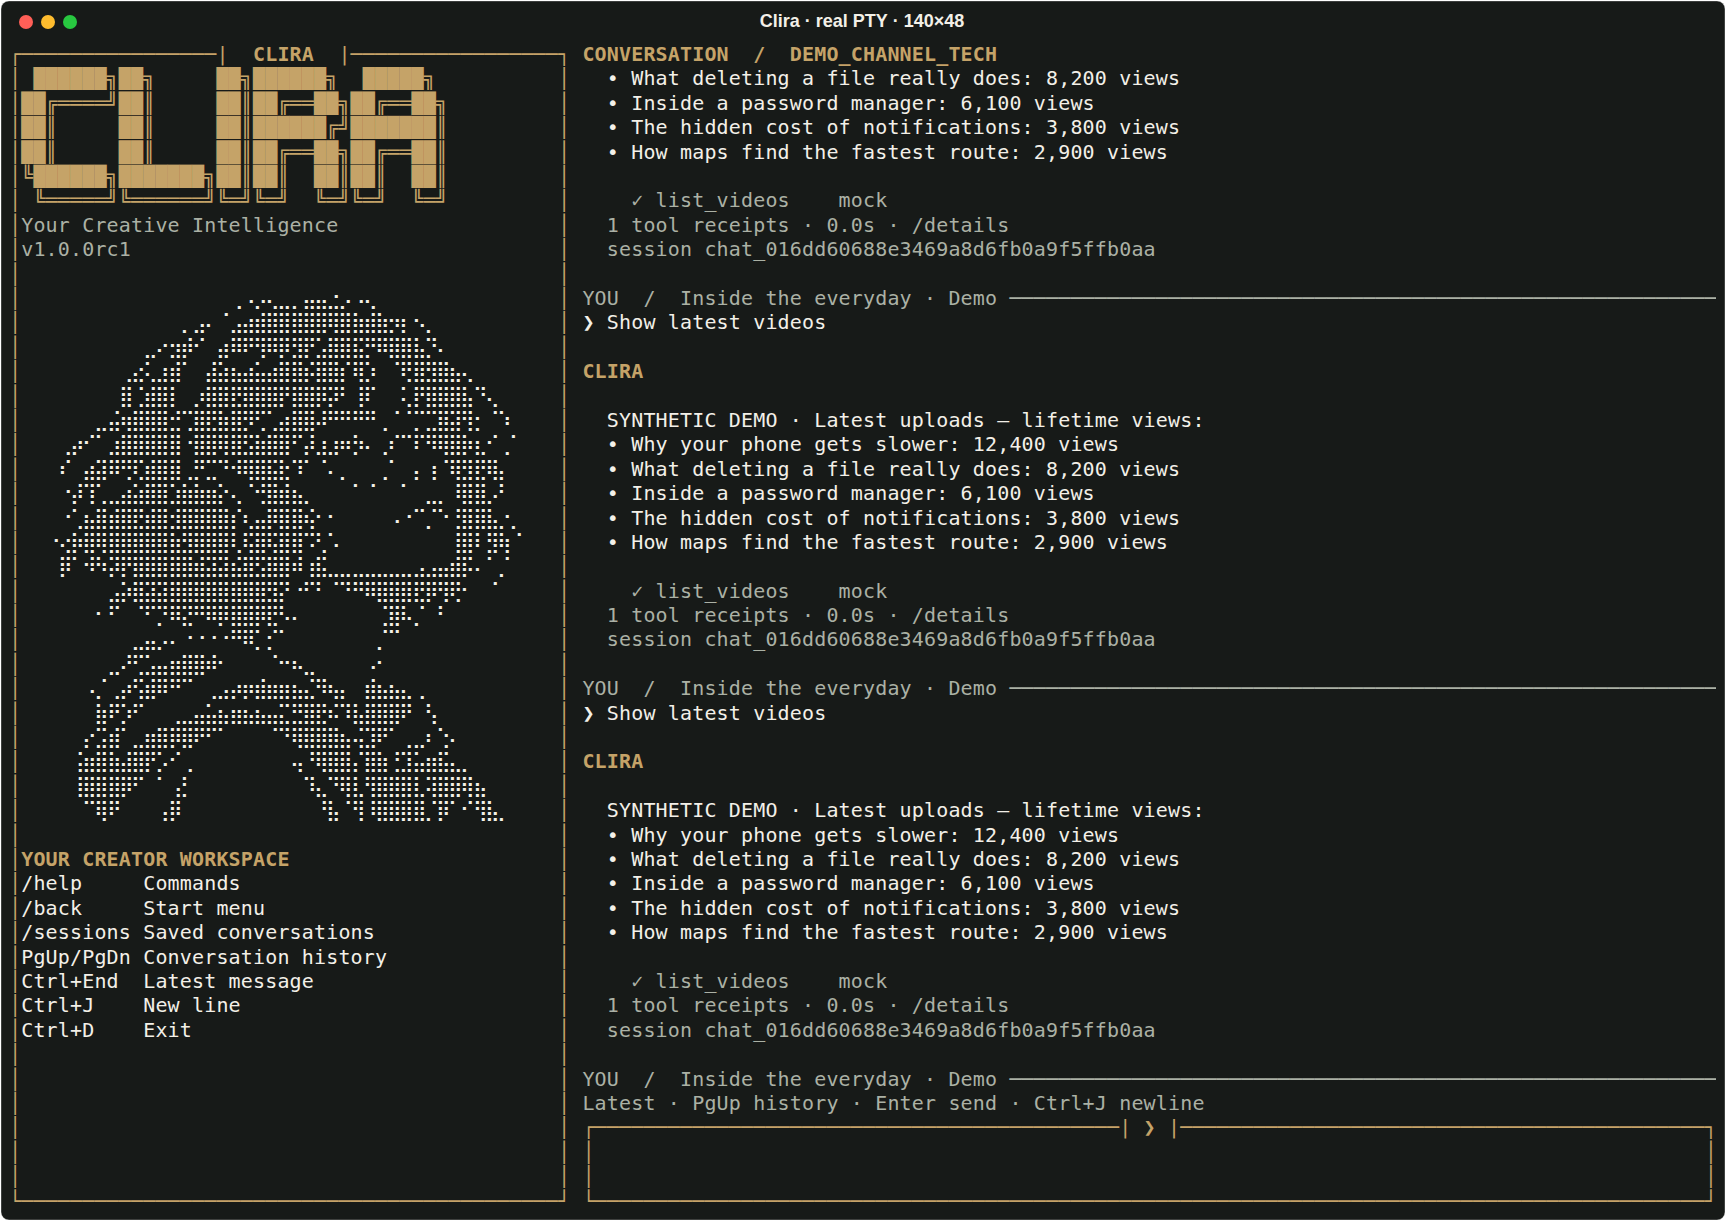
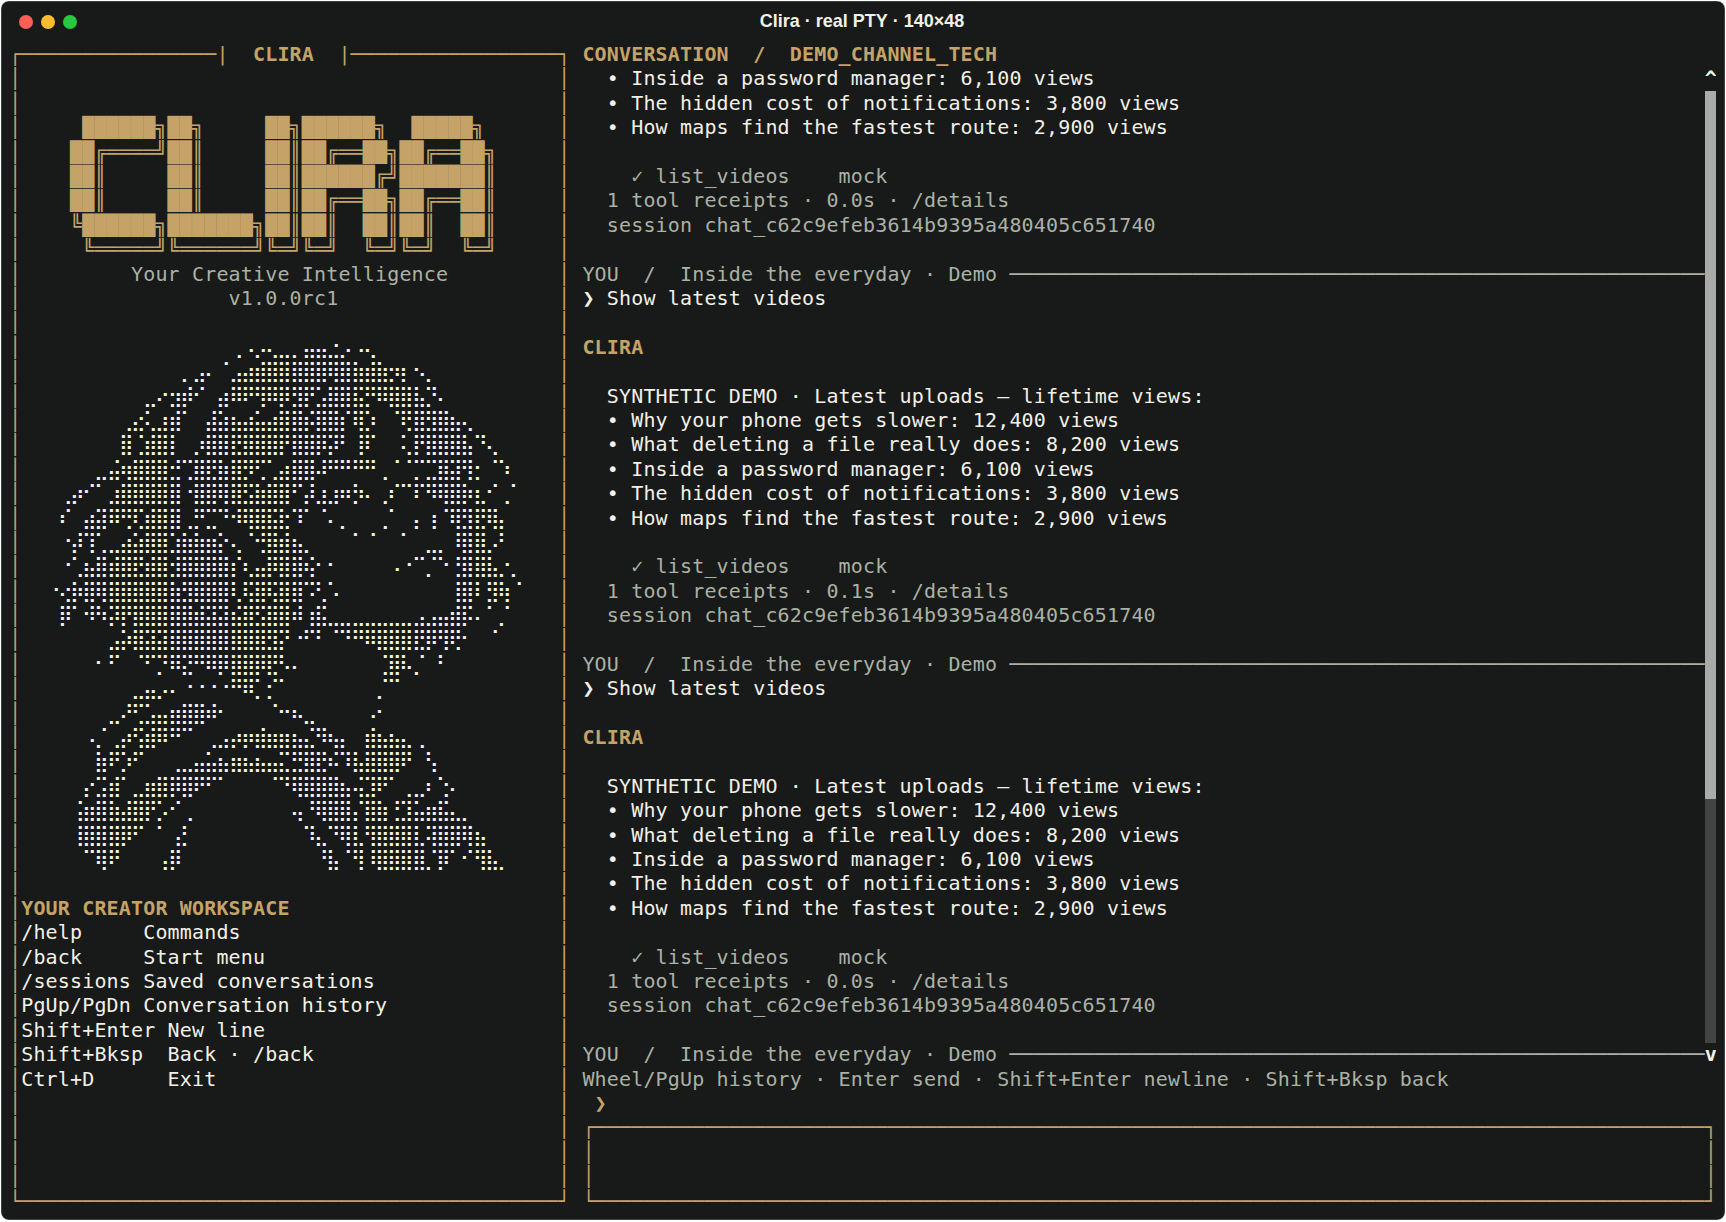
Refine terminal spacing, left-align questions and add scrolling and Shift shortcuts

Changed region(s): [[0.3378, 0.0622, 1.0, 0.9329], [0.0, 0.0311, 0.3071, 0.9018], [0.737, 0.8707, 0.8291, 0.9018]]

diff --git a/clira/tui/screen.py b/clira/tui/screen.py
@@ -18,21 +18,34 @@ from prompt_toolkit.layout import HSplit, Layout, VSplit, Window
 from prompt_toolkit.layout.containers import DynamicContainer, Float, FloatContainer
 from prompt_toolkit.layout.controls import FormattedTextControl, UIContent, UIControl
 from prompt_toolkit.layout.dimension import Dimension
+from prompt_toolkit.layout.margins import ScrollbarMargin
 from prompt_toolkit.layout.menus import CompletionsMenu
+from prompt_toolkit.mouse_events import MouseEventType
 from prompt_toolkit.output import ColorDepth
 from prompt_toolkit.styles import Style
 from prompt_toolkit.widgets import Frame, SearchToolbar, TextArea
+from rich.cells import cell_len
 from rich.console import Console
 from rich.text import Text
 
 from .. import __version__
 from ..text import terminal_text
+from .keys import register_modified_keys
 from .presentation import WORDMARK
 
 
 class Transcript(UIControl):
     def __init__(self, shell):
         self.shell = shell
+
+    def mouse_handler(self, mouse_event):
+        if mouse_event.event_type == MouseEventType.SCROLL_UP:
+            self.shell.scroll(3)
+        elif mouse_event.event_type == MouseEventType.SCROLL_DOWN:
+            self.shell.scroll(-3)
+        else:
+            return NotImplemented
+        return None
 
     def create_content(self, width, height):
         lines = self.shell.render_lines(width)
@@ -50,6 +63,7 @@ class SplitScreen:
     def __init__(self, terminal):
         from .app import COMMANDS
 
+        register_modified_keys()
         self.terminal = terminal
         self.blocks = []
         self.lock = threading.Lock()
@@ -80,7 +94,12 @@ class SplitScreen:
             read_only=Condition(lambda: not self.waiting),
             style="class:input",
         )
-        self.log = Window(Transcript(self), wrap_lines=False, always_hide_cursor=True)
+        self.log = Window(
+            Transcript(self),
+            wrap_lines=False,
+            always_hide_cursor=True,
+            right_margins=[ScrollbarMargin(display_arrows=True)],
+        )
         self.sidebar = Window(
             FormattedTextControl(self.sidebar_text), width=44, dont_extend_width=True, style="class:body"
         )
@@ -89,8 +108,15 @@ class SplitScreen:
                 Window(FormattedTextControl(self.title), height=1, style="class:heading"),
                 self.log,
                 Window(FormattedTextControl(self.scroll_hint), height=1, style="class:muted"),
+                Window(
+                    FormattedTextControl(lambda: " " + self.prompt_label),
+                    height=Dimension(min=1, max=3),
+                    dont_extend_height=True,
+                    wrap_lines=True,
+                    style="class:heading",
+                ),
                 FloatContainer(
-                    Frame(self.input, title=lambda: self.prompt_label, style="class:composer"),
+                    Frame(self.input, style="class:composer"),
                     floats=[Float(xcursor=True, ycursor=True, content=CompletionsMenu(max_height=6))],
                 ),
                 self.search,
@@ -119,7 +145,7 @@ class SplitScreen:
             color_depth=lambda: (
                 ColorDepth.DEPTH_1_BIT if terminal.console.no_color else ColorDepth.DEPTH_24_BIT
             ),
-            mouse_support=False,
+            mouse_support=True,
             refresh_interval=0.15,
             before_render=self.before_render,
         )
@@ -131,7 +157,7 @@ class SplitScreen:
 
     @property
     def content_width(self):
-        return max(12, self.size[0] - (47 if self.is_wide else 0))
+        return max(12, self.size[0] - (47 if self.is_wide else 0) - 1)
 
     def before_render(self, app):
         size = app.output.get_size()
@@ -209,13 +235,16 @@ class SplitScreen:
             text.append((style, value + "\n"))
 
         gold = "class:heading"
-        if height >= 40 and not t.no_logo:
-            add("\n".join(WORDMARK), gold)
+        add("")
+        add("")
+        if height >= 42 and not t.no_logo:
+            padding = " " * ((44 - max(cell_len(line) for line in WORDMARK)) // 2)
+            add("\n".join(padding + line for line in WORDMARK), gold)
         else:
-            add("CLIRA", gold)
-        add("Your Creative Intelligence", "class:muted")
-        add("v" + __version__, "class:muted")
-        if height >= 32 and not t.no_logo:
+            add("CLIRA".center(44), gold)
+        add("Your Creative Intelligence".center(44), "class:muted")
+        add(("v" + __version__).center(44), "class:muted")
+        if height >= 34 and not t.no_logo:
             add("")
             add(files("clira").joinpath("assets/clira_braille_compact.txt").read_text().rstrip())
         add("")
@@ -224,10 +253,10 @@ class SplitScreen:
         add("/back     Start menu")
         add("/sessions Saved conversations")
         add("PgUp/PgDn Conversation history")
-        if height >= 40:
-            add("Ctrl+End  Latest message")
-            add("Ctrl+J    New line")
-            add("Ctrl+D    Exit")
+        if height >= 42:
+            add("Shift+Enter New line")
+            add("Shift+Bksp  Back · /back")
+            add("Ctrl+D      Exit")
         return text
 
     def compact_title(self):
@@ -247,7 +276,7 @@ class SplitScreen:
             return "Clira is working…"
         if self.offset:
             return "History · PgUp/PgDn scroll · Ctrl+End returns to latest"
-        return "Latest · PgUp history · Enter send · Ctrl+J newline"
+        return "Wheel/PgUp history · Enter send · Shift+Enter newline · Shift+Bksp back"
 
     def scroll(self, amount):
         self.offset = max(0, min(len(self.lines) - 1, self.offset + amount))
@@ -266,6 +295,12 @@ class SplitScreen:
             self.offset = 0
             self.emit(Text(self.prompt_label + " " + terminal_text(value)))
             self.answers.put(value)
+
+        @keys.add("escape", "c-h", filter=has_focus(self.input))
+        def back(event):
+            if self.waiting:
+                self.input.text = "/back"
+                submit(event)
 
         @keys.add("tab", filter=has_focus(self.input))
         def complete(event):

diff --git a/tests/test_terminal_screen.py b/tests/test_terminal_screen.py
@@ -52,6 +52,10 @@ def test_long_conversation_sidebar_scroll_resize_and_input_are_independent(tmp_p
         probe.wait("History ·")
         assert probe.left == portrait and probe.text != latest
         assert "unfinished message" in probe.text
+        probe.send("\x1b[<64;80;15M")  # mouse wheel up over the conversation
+        probe.wait("History ·")
+        assert probe.left == portrait
+        probe.send("\x1b[<65;80;15M")  # wheel down
         probe.send("\x1b[1;5F")  # Ctrl+End
         probe.wait("Latest uploads")
         assert probe.left == portrait
@@ -143,5 +147,40 @@ def test_full_screen_completion_history_search_and_theme_changes(tmp_path):
         probe.send("/theme mono\r")
         probe.wait("Theme saved: mono")
         assert all(cell.fg == "default" for row in probe.screen.buffer.values() for cell in row.values())
+    finally:
+        probe.close()
+
+
+@pytest.mark.parametrize(
+    "newline,back",
+    [("\x1b[13;2u", "\x1b[127;2u"), ("\x1b[27;2;13~", "\x1b[27;2;127~"), ("\x1b[13;2~", "\x1b[8;2u")],
+)
+def test_shift_shortcuts_and_left_aligned_question(tmp_path, newline, back):
+    probe = TerminalProbe(tmp_path)
+    try:
+        probe.wait("Choose 1 / 2 / 3")
+        # The block heading starts below the border with breathing room on both sides.
+        assert "█" not in probe.screen.display[1] and "█" not in probe.screen.display[2]
+        heading = next(line for line in probe.screen.display if "█" in line)
+        assert heading.index("█") >= 4 and "█" not in heading[40:46]
+        probe.send("1\r")
+        probe.wait("Your interest >")
+        label = next(line for line in probe.screen.display if "Your interest >" in line)
+        assert label.index("Your interest >") == 48  # same left edge as the answer field
+        probe.send("Batteries\r")
+        probe.wait("Your viewer >")
+        probe.send(back)
+        probe.wait("Saved answer: Batteries")
+        probe.send("/back\r")
+        probe.wait("Choose 1 / 2 / 3")
+        probe.send("3\r")
+        probe.wait("❯")
+        probe.send("Show latest" + newline + "videos\r")
+        probe.wait("list_videos")
+        sessions = Store(tmp_path / "clira.sqlite3").sessions(DEMO_CHANNEL)
+        assert sessions[0]["messages"][0]["text"] == "Show latest\nvideos"
+        # Ordinary Backspace still edits text; it must never trigger navigation.
+        probe.send("/statux\x7fs\r")
+        probe.wait("Workspace status")
     finally:
         probe.close()

diff --git a/clira/tui/app.py b/clira/tui/app.py
@@ -21,6 +21,7 @@ from ..config import CliraError
 from ..service import DEMO_CHANNEL
 from ..text import terminal_text
 from ..workspaces import launch
+from .keys import register_modified_keys
 from .presentation import Presentation
 
 COMMANDS = [
@@ -346,6 +347,7 @@ class Terminal:
                 yield
 
     def run_inline(self):
+        register_modified_keys()
         bindings = KeyBindings()
 
         @bindings.add("enter")
@@ -359,6 +361,11 @@ class Terminal:
         @bindings.add("escape", "enter")
         def shift_enter(event):
             event.current_buffer.insert_text("\n")
+
+        @bindings.add("escape", "c-h")
+        def back(event):
+            event.current_buffer.text = "/back"
+            event.current_buffer.validate_and_handle()
 
         self.prompt = PromptSession(
             history=InMemoryHistory(),

diff --git a/clira/tui/keys.py b/clira/tui/keys.py
@@ -1,0 +1,17 @@
+"""Modified keys reported by CSI-u and xterm modifyOtherKeys terminals.
+
+Legacy terminals may send ordinary Enter/Backspace for shifted keys. Never remap those:
+Ctrl+J and /back remain available when the terminal cannot distinguish the modifiers.
+"""
+
+from prompt_toolkit.input.vt100_parser import ANSI_SEQUENCES
+from prompt_toolkit.keys import Keys
+
+
+def register_modified_keys():
+    for code in (13,):
+        for sequence in (f"\x1b[{code};2u", f"\x1b[27;2;{code}~", f"\x1b[{code};2~"):
+            ANSI_SEQUENCES[sequence] = (Keys.Escape, Keys.ControlM)
+    for code in (8, 127):
+        for sequence in (f"\x1b[{code};2u", f"\x1b[27;2;{code}~", f"\x1b[{code};2~"):
+            ANSI_SEQUENCES[sequence] = (Keys.Escape, Keys.ControlH)

diff --git a/scripts/build_release.py b/scripts/build_release.py
@@ -54,6 +54,7 @@ def main():
             "clira/tui/app.py",
             "clira/tui/presentation.py",
             "clira/tui/screen.py",
+            "clira/tui/keys.py",
         ]:
             if name not in wheel.namelist():
                 raise RuntimeError(f"Wheel is missing a runtime asset: {name}")

diff --git a/docs/TERMINAL_VISUALS.md b/docs/TERMINAL_VISUALS.md
@@ -2,7 +2,9 @@
 
 The owner-requested layout keeps Clira visible throughout long conversations. The left sidebar
 pins the large lettering, exact approved monochrome Braille portrait and command hints. The right
-side contains independently scrollable output and a fixed multiline composer. The existing service,
+side contains independently scrollable output, a scrollbar and a fixed multiline composer.
+The wordmark is centered with two rows of top padding. Composer question labels align with the
+answer field at the left edge rather than sitting in the middle of a wide border. The existing service,
 commands, SQLite sessions and exact owner approvals remain in use.
 
 ![Clira fixed sidebar and conversation](media/terminal/workspace-split.png)
@@ -31,9 +33,9 @@ in both panes. The portrait is unchanged and monochrome. Light secondary text pa
 
 | Space | Layout |
 |---|---|
-| 110+ columns, 42+ rows | Large CLIRA, portrait and help in a fixed left sidebar |
-| 110+ columns, 34–41 rows | Small CLIRA identity, full portrait and help |
-| 110+ columns, 24–33 rows | Compact sidebar identity and help, no cropped portrait |
+| 110+ columns, 44+ rows | Large CLIRA, portrait and help in a fixed left sidebar |
+| 110+ columns, 36–43 rows | Small CLIRA identity, full portrait and help |
+| 110+ columns, 24–35 rows | Compact sidebar identity and help, no cropped portrait |
 | Under 110 columns or 24 rows | Fixed compact header, conversation and composer |
 | `--no-logo` | Text identity/help; no large lettering or portrait |
 
@@ -43,13 +45,19 @@ TERM=dumb selects it automatically. Redirected use keeps the existing noninterac
 
 ## Controls
 
-- Enter sends; Ctrl+J or Alt+Enter adds a newline.
-- Page Up/Page Down browse conversation output; Ctrl+End follows the latest message.
+- Enter sends; Shift+Enter, Ctrl+J or Alt+Enter adds a newline.
+- Shift+Backspace follows the same Back path as `/back`. Ordinary Backspace still edits text.
+- Mouse wheel over the conversation and Page Up/Page Down browse output; Ctrl+End follows the latest message.
+- Mouse reporting is enabled for scrolling. Hold Shift while selecting text using the terminal's native selection.
 - Tab completes slash commands and known channel IDs; Ctrl+R searches input history.
 - `/back` opens the start menu; `0` returns to the current workspace and conversation.
 - During setup, `/back` revisits a question and `/cancel` returns to the menu without creating a draft.
 - `/clear` clears displayed output while keeping the sidebar and stored conversations.
 - Empty Ctrl+D exits; Ctrl+C clears idle input, and a second idle Ctrl+C exits.
+
+Modified shortcuts recognize CSI-u and xterm modifyOtherKeys reports. Some terminals send the same
+bytes for shifted and unshifted Enter/Backspace; the application cannot distinguish those physical
+keys. Ctrl+J and `/back` remain available in those terminals. Unmodified keys are never remapped.
 
 A running request disables the composer while the display remains responsive to resize and history
 navigation. Ctrl+C during work reports that it is still running; it never claims a write was

diff --git a/README.md b/README.md
@@ -45,8 +45,11 @@ uv run clira chat --channel ID --json 'Show my latest videos'
 
 `./run.sh` preserves its existing website launch behavior; `uv run clira` opens the terminal.
 Terminal: the Clira sidebar stays fixed while the conversation scrolls independently.
-Enter sends, Ctrl+J adds a line, Ctrl+R searches input history, Tab completes, Ctrl+D exits.
-Page Up/Page Down browse the conversation; Ctrl+End returns to the latest message.
+Enter sends; Shift+Enter or Ctrl+J adds a line. Shift+Backspace or `/back` navigates back.
+Ctrl+R searches input history, Tab completes, and Ctrl+D exits. Mouse-wheel scrolling over the
+conversation and Page Up/Page Down browse history; Ctrl+End returns to the latest message.
+Shift shortcuts require distinct modified-key reports from the terminal; Ctrl+J and `/back` work
+when a terminal sends the same sequence for shifted and ordinary keys.
 Use `/help`, `/channel`, `/launch`, `/new`, `/sessions`, `/resume ID`, `/title NAME`, `/status`,
 `/ideas`, `/calendar`, `/jobs`, `/approvals`, `/approve ID`, `/details`, `/sources`,
 `/back`, `/theme auto|light|dark|mono`, `/web`, `/clear`, `/connect`, `/model`, `/mode`, `/quit`.
@@ -69,7 +72,8 @@ with independently scrollable conversation history and a fixed composer on the r
 using the supplied Ink/Ivory palette and Antique Gold accents. Clear first-run choices, five guided
 launch steps, grouped help, Markdown replies and source-labelled receipts keep the work readable.
 It inherits your terminal background; light/dark/mono and compact layouts remain available.
-Below 110 columns or 24 rows, a compact header replaces the sidebar. Shorter sidebars simplify the
+The sidebar wordmark has top padding and is centered. Question labels sit at the composer
+left edge, aligned with the answer field. Below 110 columns or 24 rows, a compact header replaces the sidebar. Shorter sidebars simplify the
 lettering before hiding the portrait. Resize preserves the input and conversation.
 These previews decode the visible cells from an actual terminal process using synthetic data.
 For the original scrolling layout: `CLIRA_TERMINAL_LAYOUT=inline uv run --locked clira`.

diff --git a/CHANGELOG.md b/CHANGELOG.md
@@ -2,6 +2,11 @@
 
 ## 1.0.0rc1 · unreleased local candidate
 
+- Center and lower the sidebar wordmark with top padding; left-align composer question labels
+  with the answer field. Add a transcript scrollbar and mouse-wheel scrolling. Recognize reported
+  Shift+Enter and Shift+Backspace via CSI-u/xterm encodings, preserving Ctrl+J, `/back` and ordinary
+  Backspace editing.
+
 - Persistent split terminal: fixed Clira lettering, portrait and help sidebar; independently
   scrollable conversation; fixed multiline composer. Page Up/Down browse history and Ctrl+End
   follows the latest message. Responsive compact header, retained input across resize, working
